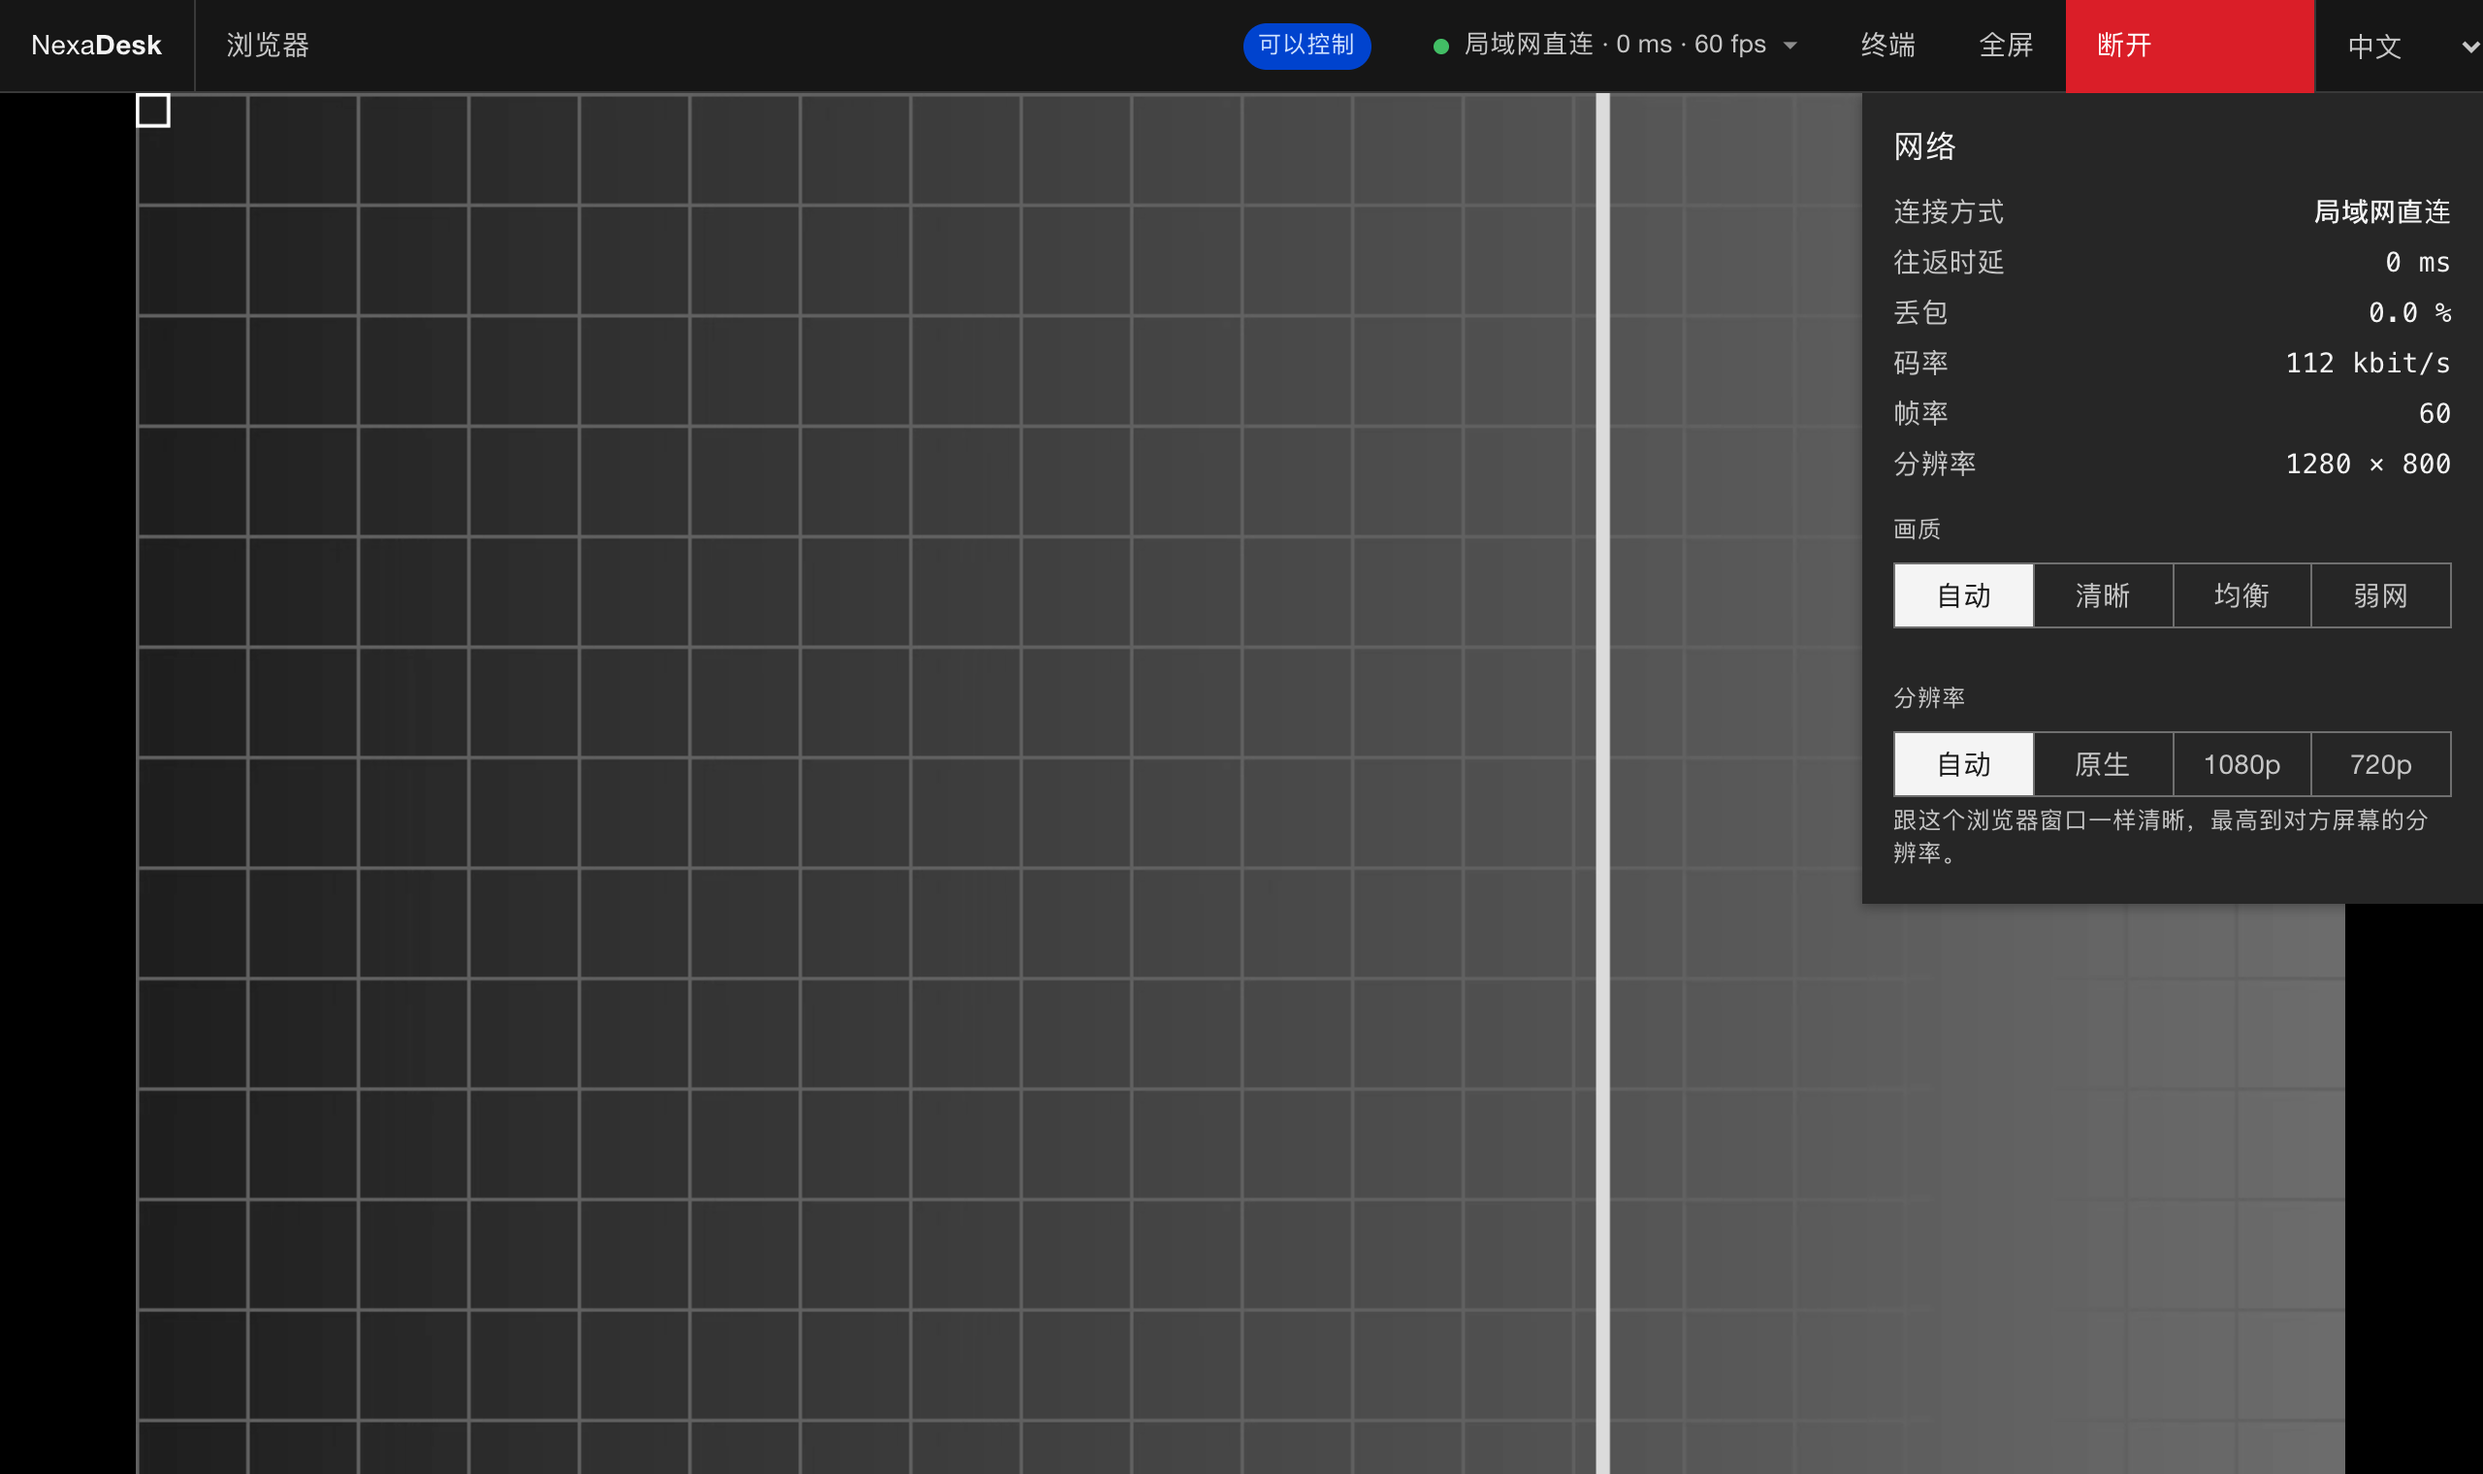
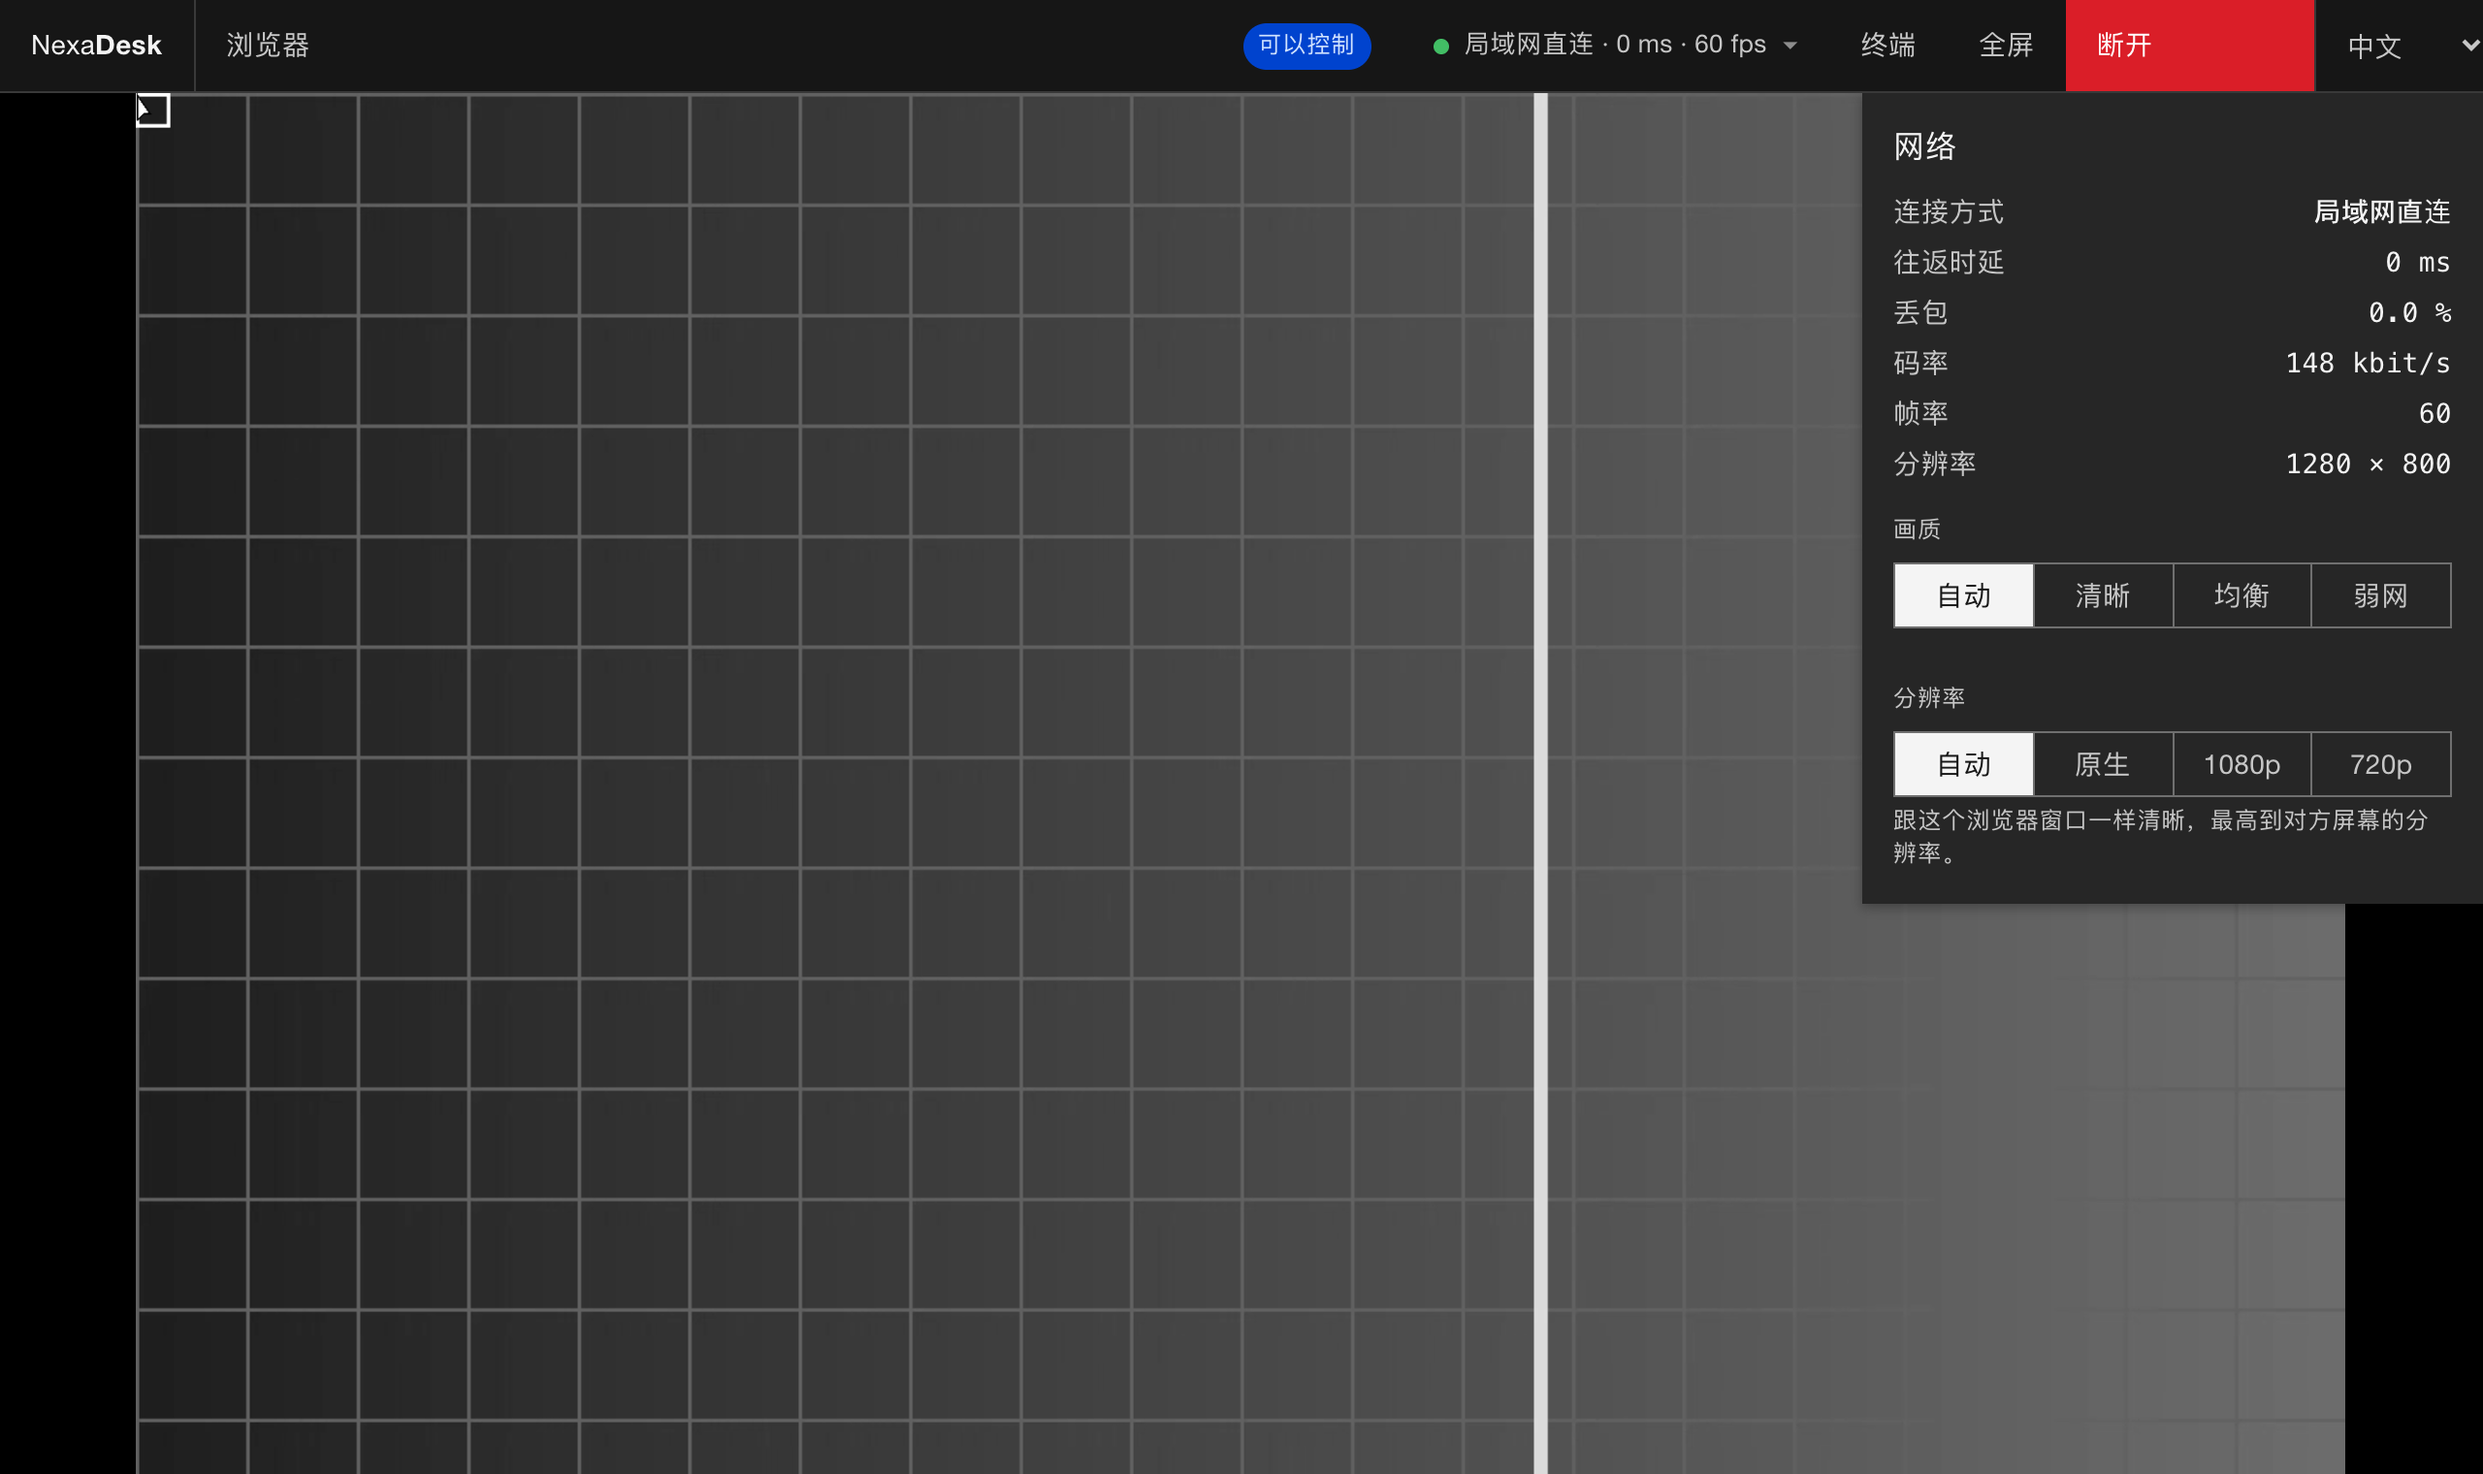
Show saved connections, phones and the local cursor in the README
New web screenshots: the connect page with saved connections, the same
on a phone with one connection being edited, and a session on a phone
held sideways with the key bar. The screenshot script takes them with
made-up saved connections, serving the page as the signaling server
would. The README describes the cursor drawn by the browser, saved
connections, the phone layout and where the agent's log is.

The cursor the page draws now has a least size: a phone shrinks the
whole desktop, and the cursor with it, until it is hard to see.

Changed region(s): [[0.5938, 0.0618, 0.6562, 1.0]]

diff --git a/crates/nexa-web-page/web/cursor.js b/crates/nexa-web-page/web/cursor.js
@@ -119,7 +119,9 @@ export class RemoteCursor {
     const rect = this.rect();
     const shape = st && this.shapes.get(st.id);
     if (!st || !rect || !shape?.ready) return;
-    const k = this.pointScale(rect);
+    // At the picture's scale, but never so small it is lost: a phone shrinks a whole
+    // desktop into a few inches, and its cursor with it.
+    const k = Math.max(this.pointScale(rect), this.touch ? 1 : 0.75);
     // Its size on the page: host points at the picture's scale, within what browsers take.
     let cw = (shape.w / shape.s) * k, ch = (shape.h / shape.s) * k;
     const fit = Math.min(1, MOST_CSS_PX / Math.max(cw, ch));

diff --git a/README.md b/README.md
@@ -13,7 +13,7 @@
   <img src="docs/images/main-dark.png" width="49%" alt="主窗口（深色）">
 </p>
 
-有人连接时，本机弹出确认窗口：显示对方是谁、怎么验证的、密钥指纹，由你勾选允许的权限。“拒绝”是默认按钮，“允许”在窗口出现一秒后才能点。用固定密码连接的是机主本人，不弹窗。浏览器端不用安装任何软件，连接时可以选“屏幕”还是“终端”。
+有人连接时，本机弹出确认窗口：显示对方是谁、怎么验证的、密钥指纹，由你勾选允许的权限。“拒绝”是默认按钮，“允许”在窗口出现一秒后才能点。用固定密码连接的是机主本人，不弹窗。浏览器端不用安装任何软件，连接时可以选“屏幕”还是“终端”；连过的设备可以保存在浏览器里，下次点一下就能连上。
 
 <p>
   <img src="docs/images/consent.png" width="36%" alt="连接确认">
@@ -27,6 +27,13 @@
   <img src="docs/images/web-terminal.png" width="42%" alt="浏览器端命令行">
 </p>
 
+手机上同样可用：顶栏换成图标，横屏时给画面让出更多空间，弹出键盘时多一排 Esc、Tab、修饰键和方向键。对方的指针由浏览器自己画出来，不等画面传回，点哪里就立刻显示在哪里。
+
+<p>
+  <img src="docs/images/web-phone.png" width="26%" alt="手机上的连接页：已保存的连接，其中一个正在编辑">
+  <img src="docs/images/web-phone-session.png" width="72%" alt="手机横屏控制，带按键栏">
+</p>
+
 控制别人时，画面上方是工具栏（模式、声音、文件、HUD、诊断）。被控制时，本机顶部一直显示提示条，每个连接的人一行，可以单独断开；挡住画面时可以收起成一个小标签，但不会完全隐藏。
 
 <p>
@@ -35,7 +42,7 @@
   <img src="docs/images/banner-folded.png" width="14%" alt="收起后的提示条">
 </p>
 
-截图里的设备、地址和代码都是虚构的。界面改动后运行 `scripts/screenshots.sh` 重新生成：应用界面由 `ui/NexaDesk.Screenshots` 用真实的界面代码离屏渲染；浏览器页面由 `scripts/web-screenshots.mjs` 在无界面的 Google Chrome 里对演示主机走一遍真实的会话截取，终端用的是一个干净的 `/bin/sh`。
+截图里的设备、地址、代码和已保存的连接都是虚构的。界面改动后运行 `scripts/screenshots.sh` 重新生成：应用界面由 `ui/NexaDesk.Screenshots` 用真实的界面代码离屏渲染；浏览器页面由 `scripts/web-screenshots.mjs` 在无界面的 Google Chrome 里对演示主机走一遍真实的会话截取（电脑和手机尺寸各一遍），终端用的是一个干净的 `/bin/sh`。
 
 ## 特点
 
@@ -51,7 +58,9 @@
 - **浏览器控制**：对方不用安装任何软件。
   - 局域网和 Tailscale 里，用浏览器打开 `https://本机地址:47801`，页面和 WebRTC 都由本机提供，不经过服务器。
   - 有自建服务器时，从任何网络打开服务器的网址、输入设备 ID 连接。先经服务器的 TURN 中转；本机点了允许之后，才把自己的局域网和 Tailscale 地址告诉浏览器，同一网络里自动切到直连。
-  - 手机可用触控手势和屏幕键盘，输入法照常可用，文字剪贴板双向同步，非 Mac 键盘的 Ctrl+C/V 自动对应 ⌘C/V。页面支持中文、English、日本語。
+  - 指针在浏览器本地画：对方只发指针的形状和位置，不画进画面，所以鼠标移动没有延迟。别人（对方本人、另一个连接者、程序）移动的指针照样显示在对方说的位置。
+  - 连过的设备可以保存在浏览器里，可以存多台，点一下直接连：保存了固定密码的直接登录，没保存的向对方发连接请求。每台可以改名、更新或不再保存密码、删除。密码先用浏览器生成的、页面也导不出的密钥加密再存；一次性码从不保存。
+  - 手机可用触控手势和屏幕键盘，页面按手机屏幕排版（顶栏换成图标，横屏时更紧凑）；输入法照常可用，文字剪贴板双向同步，非 Mac 键盘的 Ctrl+C/V 自动对应 ⌘C/V。页面支持中文、English、日本語。
   - 顶栏显示连接方式、延迟和帧率；画质可选自动、清晰、均衡、弱网，分辨率可选自动（按浏览器窗口的实际像素）、原生、1080p、720p。
   - 默认关闭，在主窗口底部打开“允许浏览器连接”。
 - **登录方式**：一次性码（对方点允许）；固定密码（机主自己的入口，直接进入）；经服务器时也可以只填设备 ID，对方会看到标明“无法核实身份”的请求。设备 ID 可以随时重置。
@@ -146,6 +155,8 @@ nexa-agent --listen '[::]:47800'
 
 `nexa-agent --help` 列出全部选项，例如 `--paired-only`、`--relay-only`、`--no-lan-discovery`。
 
+连接断开时想知道原因：NexaDesk.app 把被控端的日志写在 `~/Library/Logs/NexaDesk/agent.log`，每个会话的开始、结束和结束原因都在里面（超过 1 MB 时旧的移到 `agent.log.1`）。
+
 ## 测试
 
 ```bash
@@ -180,6 +191,6 @@ cargo run -p nexa-web --example demo
 - **验证**：两台 Mac 的实机联调；真实 NAT 环境下的打洞测试（经自建服务器中继已在公网实测，见 docs/DEPLOY.md §6）。
 - **macOS 发布**：Developer ID 签名与公证、安装包、自动更新，以及登录界面和锁屏前的远程访问。
 - **其他平台**：Windows 的图形被控端与控制端（命令行被控端已有，见 docs/TERM_HOST.md）。
-- **Web 端后续**：真实手机、Safari、Firefox 上的实测；TURN over TCP/TLS（UDP 被封的网络）；声音和文件传输；应用（非浏览器）里的终端。
+- **Web 端后续**：iPhone / Safari、Firefox 上的实测（Android 上的 Chrome 已用过）；TURN over TCP/TLS（UDP 被封的网络）；声音和文件传输；应用（非浏览器）里的终端。
 - **命令行被控端**：Windows 版的实机运行；作为 Windows 服务运行。
 - **产品决定**：无人值守机器的首次配对方式；知道 ID 的人默认能做什么；文件权限是否按方向拆开。
